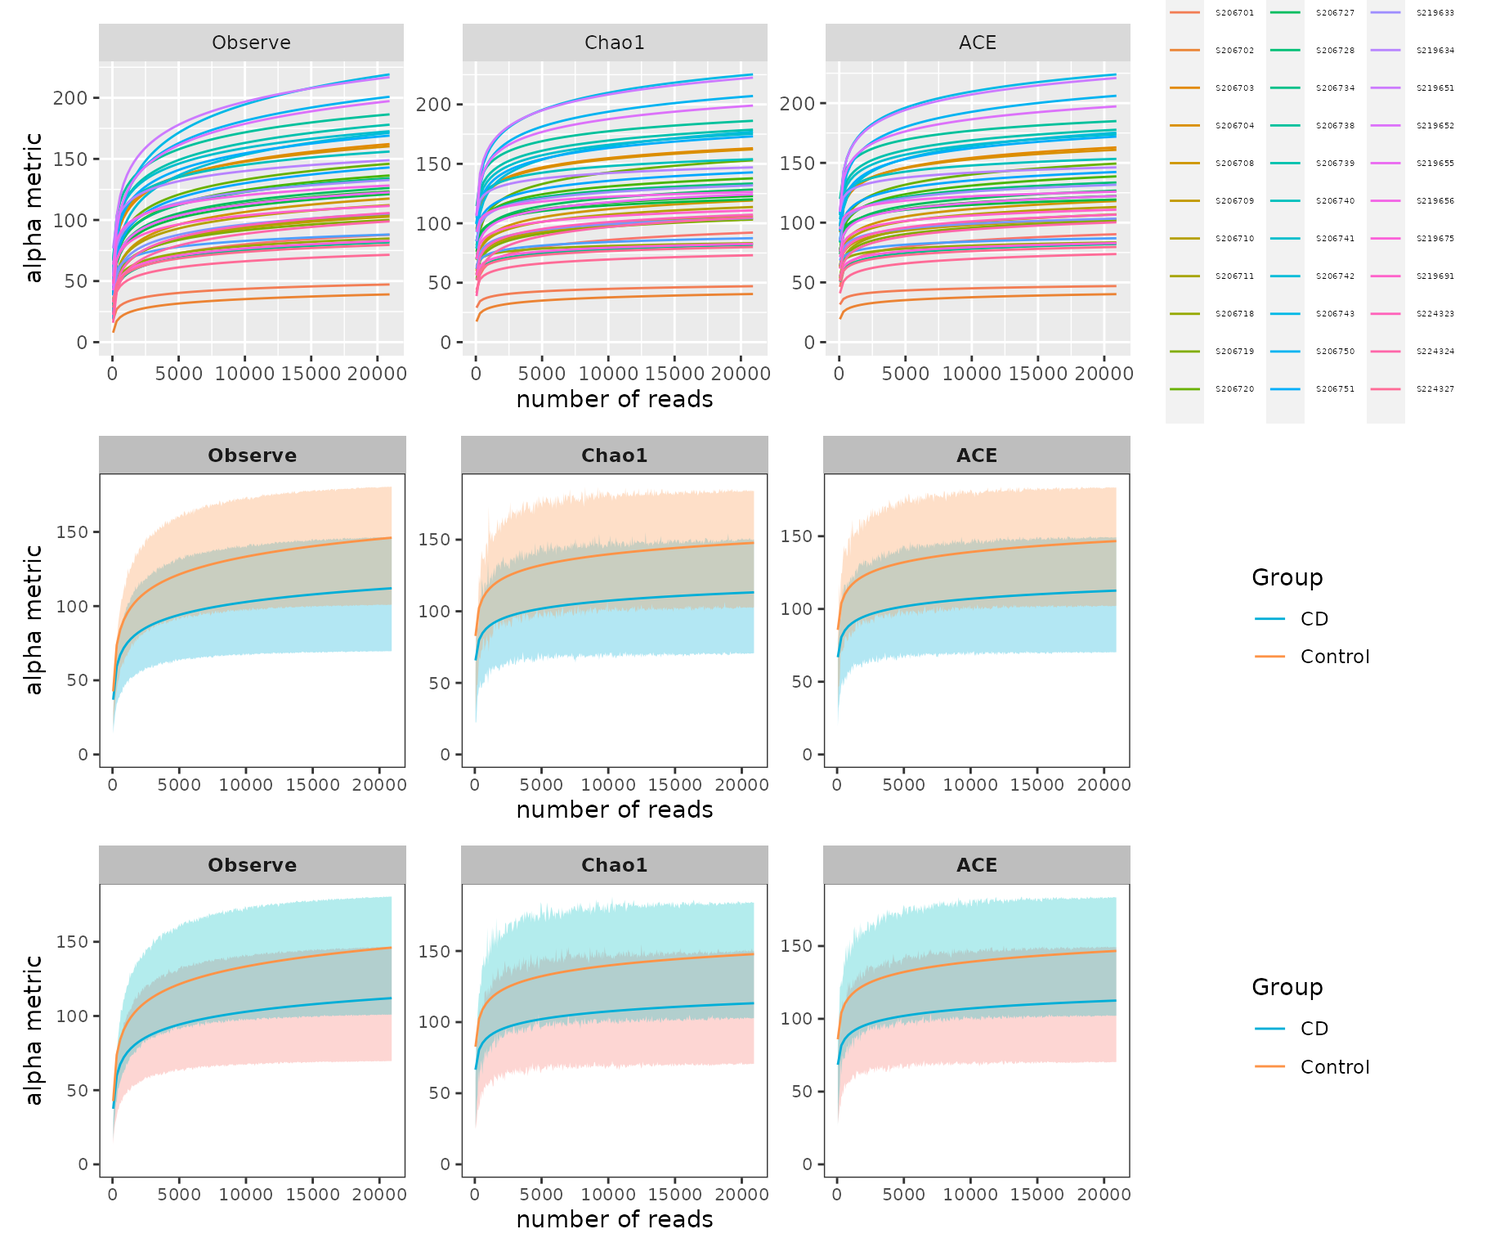
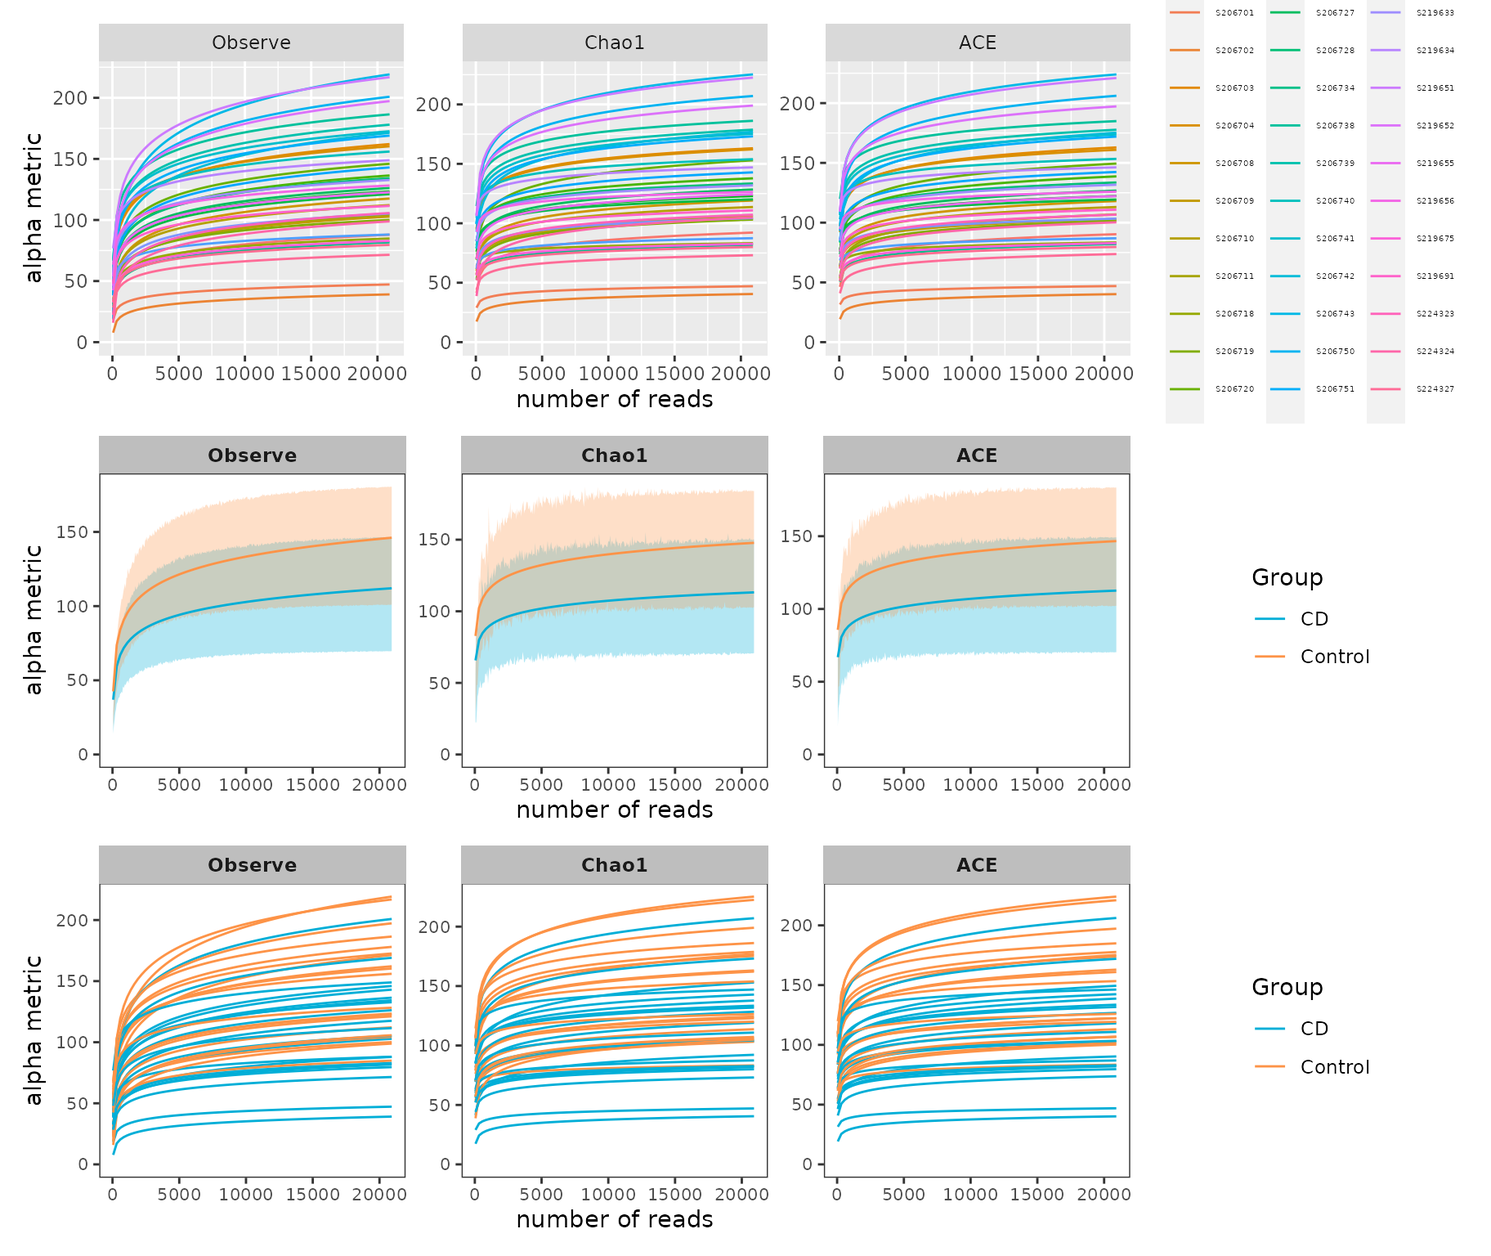
Deploying to gh-pages from  @ 6519c4af341ba6a4144ef9bf6158c62e3151bdb5 🚀

Changed region(s): [[0.0625, 0.6875, 0.75, 0.9062], [0.0312, 0.7188, 0.0625, 0.75]]

diff --git a/articles/MicrobiotaProcessWorkshop.html b/articles/MicrobiotaProcessWorkshop.html
@@ -250,15 +250,16 @@ import table
 <span class="kw"><a href="https://rdrr.io/r/base/library.html">library</a></span><span class="op">(</span><span class="va"><a href="https://patchwork.data-imaginist.com">patchwork</a></span><span class="op">)</span>
 <span class="co"># for reproducibly random number</span>
 <span class="fu"><a href="https://rdrr.io/r/base/Random.html">set.seed</a></span><span class="op">(</span><span class="fl">1024</span><span class="op">)</span>
-<span class="va">p_rare</span> <span class="op">&lt;-</span> <span class="fu"><a href="https://rdrr.io/pkg/MicrobiotaProcess/man/ggrarecurve.html">ggrarecurve</a></span><span class="op">(</span>obj<span class="op">=</span><span class="va">ps</span>,
+<span class="va">rareres</span> <span class="op">&lt;-</span> <span class="fu"><a href="https://rdrr.io/pkg/MicrobiotaProcess/man/get_rarecurve.html">get_rarecurve</a></span><span class="op">(</span>obj<span class="op">=</span><span class="va">ps</span>, chunks<span class="op">=</span><span class="fl">400</span><span class="op">)</span>
+
+<span class="va">p_rare</span> <span class="op">&lt;-</span> <span class="fu"><a href="https://rdrr.io/pkg/MicrobiotaProcess/man/ggrarecurve.html">ggrarecurve</a></span><span class="op">(</span>obj<span class="op">=</span><span class="va">rareres</span>,
                       indexNames<span class="op">=</span><span class="fu"><a href="https://rdrr.io/r/base/c.html">c</a></span><span class="op">(</span><span class="st">"Observe"</span>,<span class="st">"Chao1"</span>,<span class="st">"ACE"</span><span class="op">)</span>,
-                      chunks<span class="op">=</span><span class="fl">400</span><span class="op">)</span> <span class="op">+</span>
+                      <span class="op">)</span> <span class="op">+</span>
           <span class="fu"><a href="https://ggplot2.tidyverse.org/reference/theme.html">theme</a></span><span class="op">(</span>legend.spacing.y<span class="op">=</span><span class="fu"><a href="https://rdrr.io/r/grid/unit.html">unit</a></span><span class="op">(</span><span class="fl">0.01</span>,<span class="st">"cm"</span><span class="op">)</span>,
                 legend.text<span class="op">=</span><span class="fu"><a href="https://ggplot2.tidyverse.org/reference/element.html">element_text</a></span><span class="op">(</span>size<span class="op">=</span><span class="fl">4</span><span class="op">)</span><span class="op">)</span>
-<span class="fu"><a href="https://rdrr.io/r/base/Random.html">set.seed</a></span><span class="op">(</span><span class="fl">1024</span><span class="op">)</span>
-<span class="va">prare1</span> <span class="op">&lt;-</span> <span class="fu"><a href="https://rdrr.io/pkg/MicrobiotaProcess/man/ggrarecurve.html">ggrarecurve</a></span><span class="op">(</span>obj<span class="op">=</span><span class="va">ps</span>, factorNames<span class="op">=</span><span class="st">"Group"</span>,
-                      indexNames<span class="op">=</span><span class="fu"><a href="https://rdrr.io/r/base/c.html">c</a></span><span class="op">(</span><span class="st">"Observe"</span>, <span class="st">"Chao1"</span>, <span class="st">"ACE"</span><span class="op">)</span>,
-                      chunks<span class="op">=</span><span class="fl">400</span> 
+
+<span class="va">prare1</span> <span class="op">&lt;-</span> <span class="fu"><a href="https://rdrr.io/pkg/MicrobiotaProcess/man/ggrarecurve.html">ggrarecurve</a></span><span class="op">(</span>obj<span class="op">=</span><span class="va">rareres</span>, factorNames<span class="op">=</span><span class="st">"Group"</span>,
+                      indexNames<span class="op">=</span><span class="fu"><a href="https://rdrr.io/r/base/c.html">c</a></span><span class="op">(</span><span class="st">"Observe"</span>, <span class="st">"Chao1"</span>, <span class="st">"ACE"</span><span class="op">)</span>
                       <span class="op">)</span> <span class="op">+</span>
           <span class="fu"><a href="https://ggplot2.tidyverse.org/reference/scale_manual.html">scale_fill_manual</a></span><span class="op">(</span>values<span class="op">=</span><span class="fu"><a href="https://rdrr.io/r/base/c.html">c</a></span><span class="op">(</span><span class="st">"#00AED7"</span>, <span class="st">"#FD9347"</span><span class="op">)</span><span class="op">)</span><span class="op">+</span>
           <span class="fu"><a href="https://ggplot2.tidyverse.org/reference/scale_manual.html">scale_color_manual</a></span><span class="op">(</span>values<span class="op">=</span><span class="fu"><a href="https://rdrr.io/r/base/c.html">c</a></span><span class="op">(</span><span class="st">"#00AED7"</span>, <span class="st">"#FD9347"</span><span class="op">)</span><span class="op">)</span><span class="op">+</span>
@@ -266,11 +267,11 @@ import table
           <span class="fu"><a href="https://ggplot2.tidyverse.org/reference/theme.html">theme</a></span><span class="op">(</span>axis.text<span class="op">=</span><span class="fu"><a href="https://ggplot2.tidyverse.org/reference/element.html">element_text</a></span><span class="op">(</span>size<span class="op">=</span><span class="fl">8</span><span class="op">)</span>, panel.grid<span class="op">=</span><span class="fu"><a href="https://ggplot2.tidyverse.org/reference/element.html">element_blank</a></span><span class="op">(</span><span class="op">)</span>,
                 strip.background <span class="op">=</span> <span class="fu"><a href="https://ggplot2.tidyverse.org/reference/element.html">element_rect</a></span><span class="op">(</span>colour<span class="op">=</span><span class="cn">NA</span>,fill<span class="op">=</span><span class="st">"grey"</span><span class="op">)</span>,
                 strip.text.x <span class="op">=</span> <span class="fu"><a href="https://ggplot2.tidyverse.org/reference/element.html">element_text</a></span><span class="op">(</span>face<span class="op">=</span><span class="st">"bold"</span><span class="op">)</span><span class="op">)</span>          
-<span class="va">prare2</span> <span class="op">&lt;-</span> <span class="fu"><a href="https://rdrr.io/pkg/MicrobiotaProcess/man/ggrarecurve.html">ggrarecurve</a></span><span class="op">(</span>obj<span class="op">=</span><span class="va">ps</span>,
+
+<span class="va">prare2</span> <span class="op">&lt;-</span> <span class="fu"><a href="https://rdrr.io/pkg/MicrobiotaProcess/man/ggrarecurve.html">ggrarecurve</a></span><span class="op">(</span>obj<span class="op">=</span><span class="va">rareres</span>,
                       factorNames<span class="op">=</span><span class="st">"Group"</span>,
                       shadow<span class="op">=</span><span class="cn">FALSE</span>,
-                      indexNames<span class="op">=</span><span class="fu"><a href="https://rdrr.io/r/base/c.html">c</a></span><span class="op">(</span><span class="st">"Observe"</span>, <span class="st">"Chao1"</span>, <span class="st">"ACE"</span><span class="op">)</span>,
-                      chunks<span class="op">=</span><span class="fl">400</span> 
+                      indexNames<span class="op">=</span><span class="fu"><a href="https://rdrr.io/r/base/c.html">c</a></span><span class="op">(</span><span class="st">"Observe"</span>, <span class="st">"Chao1"</span>, <span class="st">"ACE"</span><span class="op">)</span>
                       <span class="op">)</span> <span class="op">+</span>
           <span class="fu"><a href="https://ggplot2.tidyverse.org/reference/scale_manual.html">scale_color_manual</a></span><span class="op">(</span>values<span class="op">=</span><span class="fu"><a href="https://rdrr.io/r/base/c.html">c</a></span><span class="op">(</span><span class="st">"#00AED7"</span>, <span class="st">"#FD9347"</span><span class="op">)</span><span class="op">)</span><span class="op">+</span>
           <span class="fu"><a href="https://ggplot2.tidyverse.org/reference/ggtheme.html">theme_bw</a></span><span class="op">(</span><span class="op">)</span><span class="op">+</span>
@@ -423,11 +424,13 @@ Example of Upset plot
 <span class="co"># Visulizing the result</span>
 <span class="va">pcaplot1</span> <span class="op">&lt;-</span> <span class="fu"><a href="https://rdrr.io/pkg/MicrobiotaProcess/man/ggordpoint.html">ggordpoint</a></span><span class="op">(</span>obj<span class="op">=</span><span class="va">pcares</span>, biplot<span class="op">=</span><span class="cn">TRUE</span>, speciesannot<span class="op">=</span><span class="cn">TRUE</span>,
                       factorNames<span class="op">=</span><span class="fu"><a href="https://rdrr.io/r/base/c.html">c</a></span><span class="op">(</span><span class="st">"Group"</span><span class="op">)</span>, ellipse<span class="op">=</span><span class="cn">TRUE</span><span class="op">)</span> <span class="op">+</span>
-            <span class="fu"><a href="https://ggplot2.tidyverse.org/reference/scale_manual.html">scale_color_manual</a></span><span class="op">(</span>values<span class="op">=</span><span class="fu"><a href="https://rdrr.io/r/base/c.html">c</a></span><span class="op">(</span><span class="st">"#00AED7"</span>, <span class="st">"#FD9347"</span><span class="op">)</span><span class="op">)</span>
+            <span class="fu"><a href="https://ggplot2.tidyverse.org/reference/scale_manual.html">scale_color_manual</a></span><span class="op">(</span>values<span class="op">=</span><span class="fu"><a href="https://rdrr.io/r/base/c.html">c</a></span><span class="op">(</span><span class="st">"#00AED7"</span>, <span class="st">"#FD9347"</span><span class="op">)</span><span class="op">)</span> <span class="op">+</span>
+            <span class="fu"><a href="https://ggplot2.tidyverse.org/reference/scale_manual.html">scale_fill_manual</a></span><span class="op">(</span>values<span class="op">=</span><span class="fu"><a href="https://rdrr.io/r/base/c.html">c</a></span><span class="op">(</span><span class="st">"#00AED7"</span>, <span class="st">"#FD9347"</span><span class="op">)</span><span class="op">)</span>
 <span class="co"># pc = c(1, 3) to show the first and third principal components.</span>
 <span class="va">pcaplot2</span> <span class="op">&lt;-</span> <span class="fu"><a href="https://rdrr.io/pkg/MicrobiotaProcess/man/ggordpoint.html">ggordpoint</a></span><span class="op">(</span>obj<span class="op">=</span><span class="va">pcares</span>, pc<span class="op">=</span><span class="fu"><a href="https://rdrr.io/r/base/c.html">c</a></span><span class="op">(</span><span class="fl">1</span>, <span class="fl">3</span><span class="op">)</span>, biplot<span class="op">=</span><span class="cn">TRUE</span>, speciesannot<span class="op">=</span><span class="cn">TRUE</span>,
                        factorNames<span class="op">=</span><span class="fu"><a href="https://rdrr.io/r/base/c.html">c</a></span><span class="op">(</span><span class="st">"Group"</span><span class="op">)</span>, ellipse<span class="op">=</span><span class="cn">TRUE</span><span class="op">)</span> <span class="op">+</span>
-            <span class="fu"><a href="https://ggplot2.tidyverse.org/reference/scale_manual.html">scale_color_manual</a></span><span class="op">(</span>values<span class="op">=</span><span class="fu"><a href="https://rdrr.io/r/base/c.html">c</a></span><span class="op">(</span><span class="st">"#00AED7"</span>, <span class="st">"#FD9347"</span><span class="op">)</span><span class="op">)</span>
+            <span class="fu"><a href="https://ggplot2.tidyverse.org/reference/scale_manual.html">scale_color_manual</a></span><span class="op">(</span>values<span class="op">=</span><span class="fu"><a href="https://rdrr.io/r/base/c.html">c</a></span><span class="op">(</span><span class="st">"#00AED7"</span>, <span class="st">"#FD9347"</span><span class="op">)</span><span class="op">)</span> <span class="op">+</span>
+            <span class="fu"><a href="https://ggplot2.tidyverse.org/reference/scale_manual.html">scale_fill_manual</a></span><span class="op">(</span>values<span class="op">=</span><span class="fu"><a href="https://rdrr.io/r/base/c.html">c</a></span><span class="op">(</span><span class="st">"#00AED7"</span>, <span class="st">"#FD9347"</span><span class="op">)</span><span class="op">)</span>
 <span class="va">pcaplot1</span> <span class="op">|</span> <span class="va">pcaplot2</span></code></pre></div>
 <div class="figure" style="text-align: center">
 <img src="MicrobiotaProcessWorkshop_files/figure-html/PCAplot-1.png" alt="\label{fig:PCA}Example of PCA of samples" width="864"><p class="caption">
@@ -446,11 +449,13 @@ Example of PCA of samples
 <span class="co"># Visualizing the result</span>
 <span class="va">pcoaplot1</span> <span class="op">&lt;-</span> <span class="fu"><a href="https://rdrr.io/pkg/MicrobiotaProcess/man/ggordpoint.html">ggordpoint</a></span><span class="op">(</span>obj<span class="op">=</span><span class="va">pcoares</span>, biplot<span class="op">=</span><span class="cn">TRUE</span>, speciesannot<span class="op">=</span><span class="cn">TRUE</span>,
                        factorNames<span class="op">=</span><span class="fu"><a href="https://rdrr.io/r/base/c.html">c</a></span><span class="op">(</span><span class="st">"Group"</span><span class="op">)</span>, ellipse<span class="op">=</span><span class="cn">TRUE</span><span class="op">)</span> <span class="op">+</span>
-            <span class="fu"><a href="https://ggplot2.tidyverse.org/reference/scale_manual.html">scale_color_manual</a></span><span class="op">(</span>values<span class="op">=</span><span class="fu"><a href="https://rdrr.io/r/base/c.html">c</a></span><span class="op">(</span><span class="st">"#00AED7"</span>, <span class="st">"#FD9347"</span><span class="op">)</span><span class="op">)</span>
+            <span class="fu"><a href="https://ggplot2.tidyverse.org/reference/scale_manual.html">scale_color_manual</a></span><span class="op">(</span>values<span class="op">=</span><span class="fu"><a href="https://rdrr.io/r/base/c.html">c</a></span><span class="op">(</span><span class="st">"#00AED7"</span>, <span class="st">"#FD9347"</span><span class="op">)</span><span class="op">)</span> <span class="op">+</span>
+            <span class="fu"><a href="https://ggplot2.tidyverse.org/reference/scale_manual.html">scale_fill_manual</a></span><span class="op">(</span>values<span class="op">=</span><span class="fu"><a href="https://rdrr.io/r/base/c.html">c</a></span><span class="op">(</span><span class="st">"#00AED7"</span>, <span class="st">"#FD9347"</span><span class="op">)</span><span class="op">)</span>
 <span class="co"># first and third principal co-ordinates</span>
 <span class="va">pcoaplot2</span> <span class="op">&lt;-</span> <span class="fu"><a href="https://rdrr.io/pkg/MicrobiotaProcess/man/ggordpoint.html">ggordpoint</a></span><span class="op">(</span>obj<span class="op">=</span><span class="va">pcoares</span>, pc<span class="op">=</span><span class="fu"><a href="https://rdrr.io/r/base/c.html">c</a></span><span class="op">(</span><span class="fl">1</span>, <span class="fl">3</span><span class="op">)</span>, biplot<span class="op">=</span><span class="cn">TRUE</span>, speciesannot<span class="op">=</span><span class="cn">TRUE</span>,
                         factorNames<span class="op">=</span><span class="fu"><a href="https://rdrr.io/r/base/c.html">c</a></span><span class="op">(</span><span class="st">"Group"</span><span class="op">)</span>, ellipse<span class="op">=</span><span class="cn">TRUE</span><span class="op">)</span> <span class="op">+</span>
-             <span class="fu"><a href="https://ggplot2.tidyverse.org/reference/scale_manual.html">scale_color_manual</a></span><span class="op">(</span>values<span class="op">=</span><span class="fu"><a href="https://rdrr.io/r/base/c.html">c</a></span><span class="op">(</span><span class="st">"#00AED7"</span>, <span class="st">"#FD9347"</span><span class="op">)</span><span class="op">)</span>
+             <span class="fu"><a href="https://ggplot2.tidyverse.org/reference/scale_manual.html">scale_color_manual</a></span><span class="op">(</span>values<span class="op">=</span><span class="fu"><a href="https://rdrr.io/r/base/c.html">c</a></span><span class="op">(</span><span class="st">"#00AED7"</span>, <span class="st">"#FD9347"</span><span class="op">)</span><span class="op">)</span> <span class="op">+</span>
+             <span class="fu"><a href="https://ggplot2.tidyverse.org/reference/scale_manual.html">scale_fill_manual</a></span><span class="op">(</span>values<span class="op">=</span><span class="fu"><a href="https://rdrr.io/r/base/c.html">c</a></span><span class="op">(</span><span class="st">"#00AED7"</span>, <span class="st">"#FD9347"</span><span class="op">)</span><span class="op">)</span>
 <span class="va">pcoaplot1</span> <span class="op">|</span> <span class="va">pcoaplot2</span></code></pre></div>
 <div class="figure" style="text-align: center">
 <img src="MicrobiotaProcessWorkshop_files/figure-html/PCoAplot-1.png" alt="\label{fig:PCoA}Example of PCoA of samples" width="864"><p class="caption">
@@ -712,7 +717,7 @@ Example of different biomarker clade and correlation of genera
 <a href="#session-information" class="anchor"></a>8. Session information</h2>
 <p>Here is the output of <code><a href="https://rdrr.io/r/utils/sessionInfo.html">sessionInfo()</a></code> on the system on which this document was compiled:</p>
 <details><p><summary>output</summary></p>
-<pre><code>#&gt; R Under development (unstable) (2020-11-05 r79401)
+<pre><code>#&gt; R Under development (unstable) (2020-11-18 r79449)
 #&gt; Platform: x86_64-pc-linux-gnu (64-bit)
 #&gt; Running under: Ubuntu 20.04.1 LTS
 #&gt; 
@@ -740,26 +745,26 @@ Example of different biomarker clade and correlation of genera
 #&gt; [16] stringr_1.4.0           dplyr_1.0.2             purrr_0.3.4            
 #&gt; [19] readr_1.4.0             tidyr_1.1.2             tibble_3.0.4           
 #&gt; [22] tidyverse_1.3.0         ggplot2_3.3.2           phyloseq_1.35.0        
-#&gt; [25] MicrobiotaProcess_1.3.1
+#&gt; [25] MicrobiotaProcess_1.3.2
 #&gt; 
 #&gt; loaded via a namespace (and not attached):
-#&gt;   [1] tidyselect_1.1.0      htmlwidgets_1.5.2     RSQLite_2.2.1        
-#&gt;   [4] AnnotationDbi_1.53.0  munsell_0.5.0         preprocessCore_1.53.0
+#&gt;   [1] tidyselect_1.1.0      RSQLite_2.2.1         AnnotationDbi_1.53.0 
+#&gt;   [4] htmlwidgets_1.5.2     munsell_0.5.0         preprocessCore_1.53.0
 #&gt;   [7] codetools_0.2-18      ragg_0.4.0            withr_2.3.0          
-#&gt;  [10] colorspace_1.4-1      Biobase_2.51.0        highr_0.8            
-#&gt;  [13] knitr_1.30            rstudioapi_0.12       stats4_4.1.0         
+#&gt;  [10] colorspace_2.0-0      Biobase_2.51.0        highr_0.8            
+#&gt;  [13] knitr_1.30            rstudioapi_0.13       stats4_4.1.0         
 #&gt;  [16] ggsignif_0.6.0        labeling_0.4.2        bit64_4.0.5          
-#&gt;  [19] farver_2.0.3          rhdf5_2.35.0          rprojroot_1.3-2      
-#&gt;  [22] vctrs_0.3.4           treeio_1.15.0         generics_0.1.0       
+#&gt;  [19] farver_2.0.3          rhdf5_2.35.0          rprojroot_2.0.2      
+#&gt;  [22] vctrs_0.3.5           treeio_1.15.1         generics_0.1.0       
 #&gt;  [25] TH.data_1.0-10        lambda.r_1.2.4        xfun_0.19            
 #&gt;  [28] randomForest_4.6-14   fastcluster_1.1.25    R6_2.5.0             
 #&gt;  [31] doParallel_1.0.16     rhdf5filters_1.3.0    reshape_0.8.8        
-#&gt;  [34] assertthat_0.2.1      scales_1.1.1          multcomp_1.4-14      
+#&gt;  [34] assertthat_0.2.1      scales_1.1.1          multcomp_1.4-15      
 #&gt;  [37] nnet_7.3-14           gtable_0.3.0          phangorn_2.5.5       
 #&gt;  [40] WGCNA_1.69            sandwich_3.0-0        rlang_0.4.8          
 #&gt;  [43] systemfonts_0.3.2     Rmisc_1.5             splines_4.1.0        
 #&gt;  [46] lazyeval_0.2.2        impute_1.65.0         selectr_0.4-2        
-#&gt;  [49] checkmate_2.0.0       broom_0.7.2           BiocManager_1.30.10  
+#&gt;  [49] broom_0.7.2           checkmate_2.0.0       BiocManager_1.30.10  
 #&gt;  [52] yaml_2.2.1            modelr_0.1.8          backports_1.2.0      
 #&gt;  [55] Hmisc_4.4-1           tools_4.1.0           ellipsis_0.3.1       
 #&gt;  [58] biomformat_1.19.0     RColorBrewer_1.1-2    BiocGenerics_0.37.0  
@@ -768,16 +773,16 @@ Example of different biomarker clade and correlation of genera
 #&gt;  [67] ps_1.4.0              prettyunits_1.1.1     rpart_4.1-15         
 #&gt;  [70] S4Vectors_0.29.3      zoo_1.8-8             haven_2.3.1          
 #&gt;  [73] ggrepel_0.8.2         cluster_2.1.0         fs_1.5.0             
-#&gt;  [76] DECIPHER_2.19.1       magrittr_1.5          data.table_1.13.2    
+#&gt;  [76] DECIPHER_2.19.1       magrittr_2.0.1        data.table_1.13.2    
 #&gt;  [79] futile.options_1.0.1  reprex_0.3.0          mvtnorm_1.1-1        
 #&gt;  [82] matrixStats_0.57.0    hms_0.5.3             evaluate_0.14        
 #&gt;  [85] jpeg_0.1-8.1          readxl_1.3.1          IRanges_2.25.2       
 #&gt;  [88] gridExtra_2.3         compiler_4.1.0        crayon_1.3.4         
 #&gt;  [91] htmltools_0.5.0       mgcv_1.8-33           Formula_1.2-4        
-#&gt;  [94] aplot_0.0.6           libcoin_1.0-6         lubridate_1.7.9      
+#&gt;  [94] aplot_0.0.6           libcoin_1.0-6         lubridate_1.7.9.2    
 #&gt;  [97] DBI_1.1.0             formatR_1.7           dbplyr_2.0.0         
 #&gt; [100] MASS_7.3-53           Matrix_1.2-18         ade4_1.7-16          
-#&gt; [103] cli_2.1.0             quadprog_1.5-8        parallel_4.1.0       
+#&gt; [103] cli_2.2.0             quadprog_1.5-8        parallel_4.1.0       
 #&gt; [106] igraph_1.2.6          pkgconfig_2.0.3       pkgdown_1.6.1        
 #&gt; [109] rvcheck_0.1.8         foreign_0.8-80        xml2_1.3.2           
 #&gt; [112] foreach_1.5.1         svglite_1.2.3.2       multtest_2.47.0      
@@ -787,10 +792,10 @@ Example of different biomarker clade and correlation of genera
 #&gt; [124] htmlTable_2.1.0       gtools_3.8.2          modeltools_0.2-23    
 #&gt; [127] ggstar_0.0.9          lifecycle_0.2.0       nlme_3.1-150         
 #&gt; [130] jsonlite_1.7.1        Rhdf5lib_1.13.0       desc_1.2.0           
-#&gt; [133] viridisLite_0.3.0     fansi_0.4.1           pillar_1.4.6         
+#&gt; [133] viridisLite_0.3.0     fansi_0.4.1           pillar_1.4.7         
 #&gt; [136] httr_1.4.2            GO.db_3.12.1          glue_1.4.2           
 #&gt; [139] png_0.1-7             iterators_1.0.13      bit_4.0.4            
-#&gt; [142] stringi_1.5.3         blob_1.2.1            textshaping_0.1.2    
+#&gt; [142] stringi_1.5.3         blob_1.2.1            textshaping_0.2.1    
 #&gt; [145] latticeExtra_0.6-29   memoise_1.1.0         ape_5.4-1</code></pre>
 </details>
 </div>
